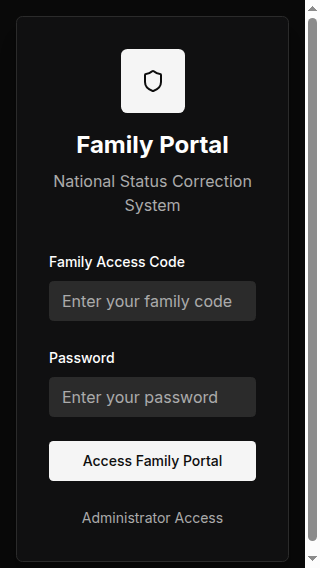
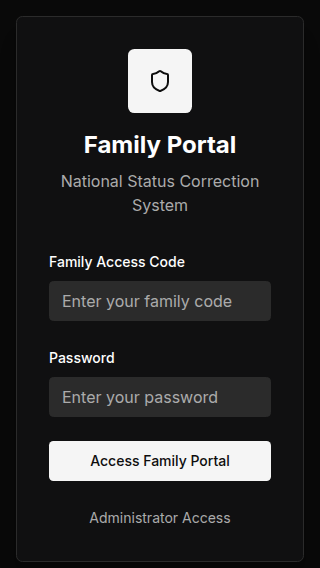
Improve mobile layout for document uploads and login form
Refactor DocumentCenter component to provide optimized mobile and desktop views for file uploads. Adjust CSS for Uppy Dashboard to improve mobile display and update label styles in the Landing page's login form for better mobile readability.

Replit-Commit-Author: Agent
Replit-Commit-Session-Id: cdce0759-a912-4b08-9e2c-6dd91e64f0c5
Replit-Commit-Checkpoint-Type: full_checkpoint
Replit-Commit-Screenshot-Url: https://storage.googleapis.com/screenshot-production-us-central1/4479c15b-157c-495c-9bde-3aad7f3f0f85/cdce0759-a912-4b08-9e2c-6dd91e64f0c5/nMbHWbT

diff --git a/client/src/components/DocumentCenter.tsx b/client/src/components/DocumentCenter.tsx
@@ -166,14 +166,23 @@ export default function DocumentCenter({ familyId }: DocumentCenterProps) {
             onComplete={handleUploadComplete}
             buttonClassName="w-full"
           >
-            <div className="relative flex w-full flex-col items-center justify-center rounded-lg border-2 border-dashed border-border p-4 sm:p-6 text-center hover:border-primary/50 transition-colors cursor-pointer min-h-24 sm:min-h-40 overflow-hidden">
-              <div className="w-10 h-10 sm:w-12 sm:h-12 bg-primary/20 rounded-lg flex items-center justify-center mx-auto pointer-events-none">
-                <Upload className="text-primary text-lg sm:text-xl" />
+            {/* Mobile optimized layout */}
+            <div className="block sm:hidden">
+              <div className="flex items-center justify-center gap-3 rounded-lg border-2 border-dashed border-border p-4 text-center hover:border-primary/50 transition-colors cursor-pointer min-h-16">
+                <div className="w-8 h-8 bg-primary/20 rounded-lg flex items-center justify-center pointer-events-none">
+                  <Upload className="text-primary text-base" />
+                </div>
+                <span className="text-card-foreground font-medium text-sm pointer-events-none">Upload Files</span>
               </div>
-              <div className="mt-2 sm:mt-3 pointer-events-none">
-                <p className="text-card-foreground font-medium text-sm sm:text-base">Upload Documents</p>
-                <p className="text-xs sm:text-sm text-muted-foreground mt-1 hidden sm:block">PDF, DOC, DOCX up to 10MB</p>
+            </div>
+            
+            {/* Desktop layout */}
+            <div className="hidden sm:flex w-full flex-col items-center justify-center rounded-lg border-2 border-dashed border-border p-6 text-center hover:border-primary/50 transition-colors cursor-pointer min-h-40 overflow-hidden">
+              <div className="w-12 h-12 bg-primary/20 rounded-lg flex items-center justify-center mx-auto mb-3 pointer-events-none">
+                <Upload className="text-primary text-xl" />
               </div>
+              <p className="text-card-foreground font-medium mb-1 pointer-events-none">Drop files here or click to browse</p>
+              <p className="text-sm text-muted-foreground pointer-events-none">PDF, DOC, DOCX up to 10MB</p>
             </div>
           </ObjectUploader>
         </div>

diff --git a/client/src/index.css b/client/src/index.css
@@ -122,28 +122,28 @@
 
 /* Mobile-specific fixes for upload area */
 @media (max-width: 640px) {
-  /* Clean up Uppy modal on mobile */
-  .uppy-Dashboard-AddFiles-title {
-    font-size: 1rem !important;
-    line-height: 1.2 !important;
-  }
-  
+  /* Completely hide all default Uppy text on mobile */
+  .uppy-Dashboard-AddFiles,
+  .uppy-Dashboard-AddFiles-title,
   .uppy-Dashboard-AddFiles-info,
-  .uppy-Dashboard-note {
+  .uppy-Dashboard-note,
+  .uppy-Dashboard-browse,
+  .uppy-DashboardTab-name {
     display: none !important;
   }
   
-  .uppy-Dashboard-AddFiles {
-    min-height: 150px !important;
+  /* Clean modal layout on mobile */
+  .uppy-Dashboard-inner {
     padding: 1rem !important;
   }
   
-  .uppy-Dashboard-inner {
-    padding: 0.5rem !important;
+  .uppy-Dashboard-AddFiles {
+    min-height: 120px !important;
   }
   
-  /* Prevent any text wrapping issues */
-  .uppy-Dashboard-browse {
-    white-space: nowrap !important;
+  /* Make drag area more compact on mobile */
+  .uppy-Dashboard-AddFiles-list {
+    margin: 0 !important;
+    padding: 1rem !important;
   }
 }

diff --git a/client/src/pages/Landing.tsx b/client/src/pages/Landing.tsx
@@ -130,7 +130,7 @@ export default function Landing() {
             
             <form onSubmit={handleFamilyLogin} className="space-y-6">
               <div>
-                <Label htmlFor="familyCode" className="text-card-foreground">Family Access Code</Label>
+                <Label htmlFor="familyCode" className="text-card-foreground text-sm sm:text-base break-words">Family Access Code</Label>
                 <Input
                   id="familyCode"
                   type="text"
@@ -143,7 +143,7 @@ export default function Landing() {
               </div>
               
               <div>
-                <Label htmlFor="password" className="text-card-foreground">Password</Label>
+                <Label htmlFor="password" className="text-card-foreground text-sm sm:text-base">Password</Label>
                 <Input
                   id="password"
                   type="password"
